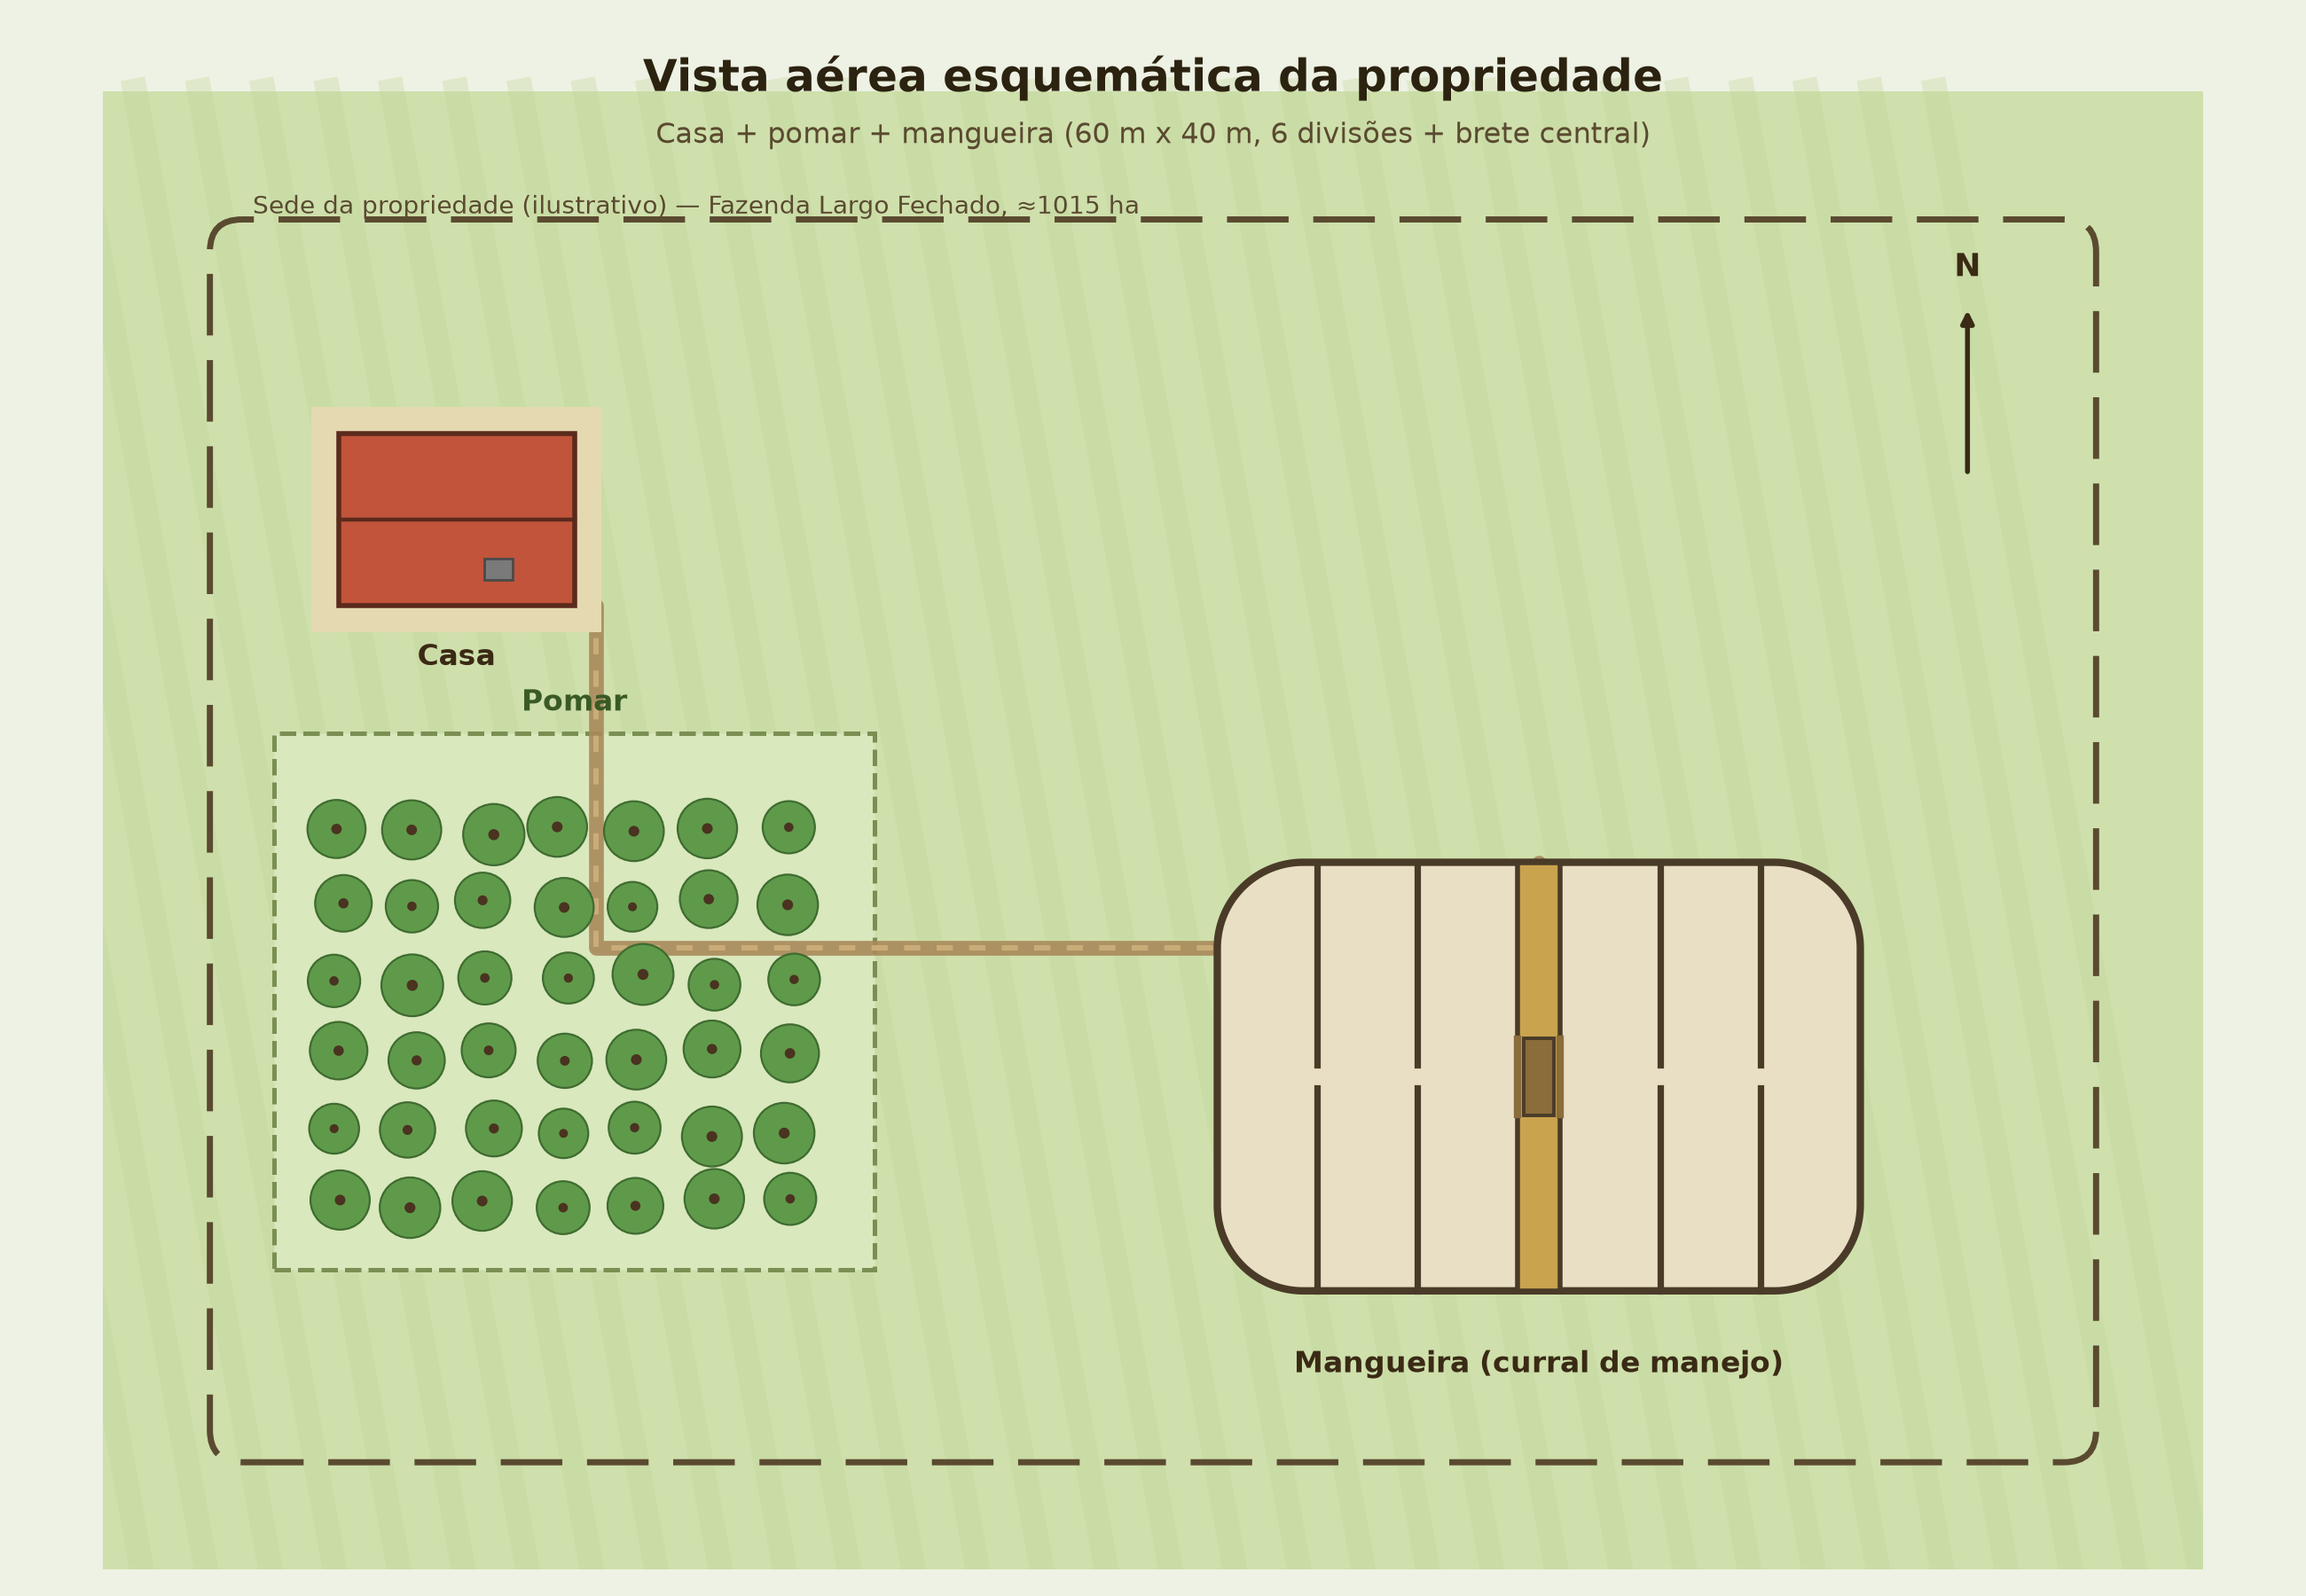
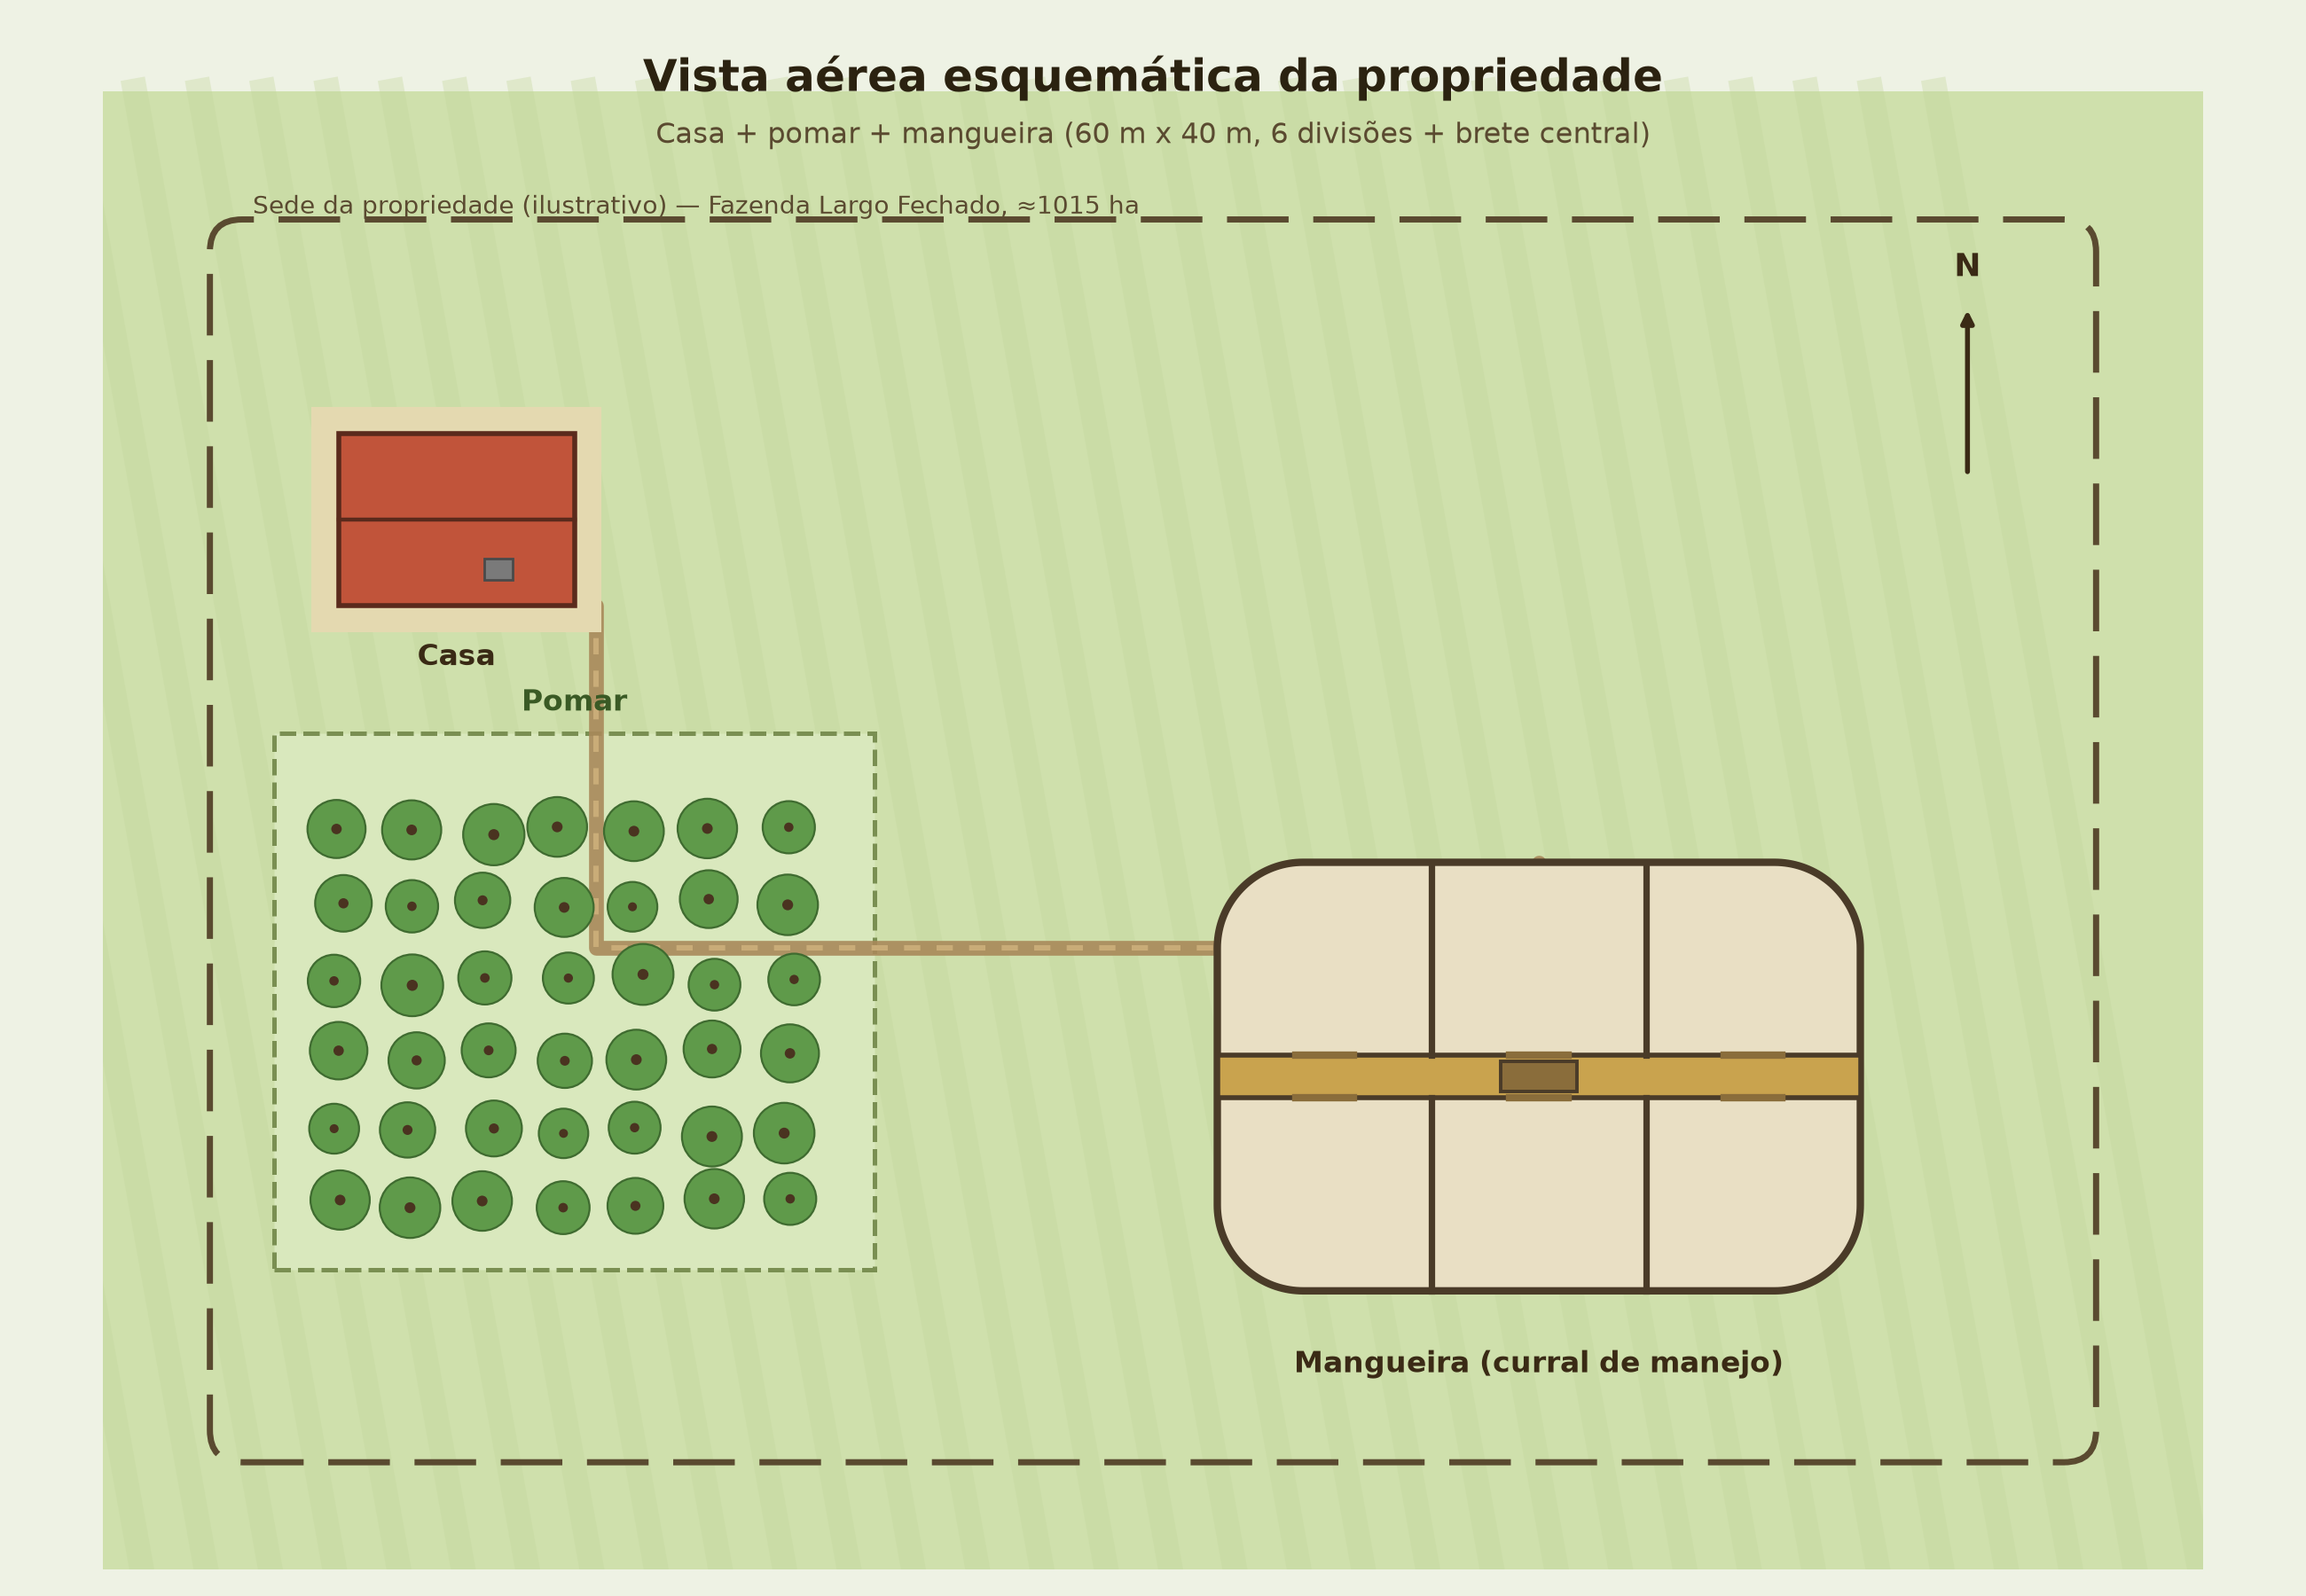
Muda o corredor de manejo para horizontal (3 piquetes em cima, 3 embaixo)
O brete central agora corta a mangueira na horizontal, de um lado ao
outro, dividindo os 6 piquetes em duas fileiras de 3. Cada piquete tem
seu proprio portao de acesso ao corredor central.

Claude-Session: https://claude.ai/code/session_01B2s8ECTjQbPqyVYzuzEcJN

Changed region(s): [[0.5296, 0.5289, 0.81, 0.8089]]

diff --git a/projeto-mangueira/mangueira_lib.py b/projeto-mangueira/mangueira_lib.py
@@ -27,10 +27,12 @@ def contorno_arredondado(x0, y0, x1, y1, r):
 
 
 def desenhar_mangueira(ax, ox=0.0, oy=0.0, largo=60.0, alto=40.0, r=8.0,
-                        n_div=6, corredor_w=4.0, simples=False, zbase=2):
+                        n_div=6, corredor_h=4.0, simples=False, zbase=2):
     """Desenha a mangueira (curral) em planta, com origem (ox, oy) no canto
-    inferior esquerdo. Se `simples=True`, omite rotulos/cotas/setas (usado
-    na vista aerea da propriedade)."""
+    inferior esquerdo. O corredor central de manejo e horizontal, cortando
+    a mangueira de um lado ao outro e deixando 3 piquetes em cima e 3
+    embaixo. Se `simples=True`, omite rotulos/cotas/setas (usado na vista
+    aerea da propriedade)."""
     x0, y0 = ox, oy
     x1, y1 = ox+largo, oy+alto
 
@@ -40,51 +42,52 @@ def desenhar_mangueira(ax, ox=0.0, oy=0.0, largo=60.0, alto=40.0, r=8.0,
                               linewidth=3 if simples else 4, zorder=zbase)
     ax.add_patch(cerca)
 
-    # corredor central de manejo (corta do lado de baixo ao lado de cima)
-    cx0 = ox + largo/2 - corredor_w/2
-    cx1 = ox + largo/2 + corredor_w/2
-    ax.add_patch(mpatches.Rectangle((cx0, y0), corredor_w, alto,
+    # corredor central de manejo (corta da esquerda a direita)
+    cy0 = oy + alto/2 - corredor_h/2
+    cy1 = oy + alto/2 + corredor_h/2
+    ax.add_patch(mpatches.Rectangle((x0, cy0), largo, corredor_h,
                                      facecolor="#c9a34e", edgecolor="#4a3b28",
                                      linewidth=2, zorder=zbase+1))
     # bretezinho (tronco de contencao) dentro do corredor
-    tronco_h = alto*0.18
-    ax.add_patch(mpatches.Rectangle((cx0+corredor_w*0.15, y0+alto/2-tronco_h/2),
-                                     corredor_w*0.7, tronco_h,
+    tronco_w = largo*0.12
+    ax.add_patch(mpatches.Rectangle((ox+largo/2-tronco_w/2, cy0+corredor_h*0.15),
+                                     tronco_w, corredor_h*0.7,
                                      facecolor="#8a6d3b", edgecolor="#4a3b28",
                                      linewidth=1.4, zorder=zbase+2))
 
-    # 6 piquetes: 3 de cada lado do corredor central
-    lado_w = (largo/2 - corredor_w/2)
-    passo = lado_w / (n_div/2)
-    gate_w = alto*0.055
+    # 6 piquetes: 3 em cima e 3 embaixo do corredor central
+    linha_h = (alto/2 - corredor_h/2)
+    passo = largo / (n_div/2)
+    gate_w = largo*0.045
 
-    def divisorias(x_ini, n):
+    def divisorias_linha(y_ini, y_fim, n):
         for k in range(1, n):
-            xk = x_ini + k*passo
-            ax.plot([xk, xk], [y0, y0+alto/2-gate_w/2], color="#4a3b28",
-                    linewidth=2.6 if simples else 3.5, zorder=zbase+1)
-            ax.plot([xk, xk], [y0+alto/2+gate_w/2, y1], color="#4a3b28",
+            xk = x0 + k*passo
+            ax.plot([xk, xk], [y_ini, y_fim], color="#4a3b28",
                     linewidth=2.6 if simples else 3.5, zorder=zbase+1)
 
-    divisorias(x0, 3)
-    divisorias(x0+lado_w+corredor_w, 3)
+    divisorias_linha(y0, cy0, 3)          # linha de baixo
+    divisorias_linha(cy1, y1, 3)          # linha de cima
 
-    # portais ligando os piquetes 3 e 4 ao corredor central
-    for xk, side in [(cx0, -1), (cx1, 1)]:
-        ax.plot([xk, xk], [y0+alto/2-gate_w*1.6, y0+alto/2+gate_w*1.6],
+    # portais ligando cada piquete ao corredor central (um por piquete)
+    for k in range(3):
+        xk = x0 + (k+0.5)*passo
+        ax.plot([xk-gate_w, xk+gate_w], [cy0, cy0],
+                color="#8a6d3b", linewidth=5 if not simples else 3, zorder=zbase+2)
+        ax.plot([xk-gate_w, xk+gate_w], [cy1, cy1],
                 color="#8a6d3b", linewidth=5 if not simples else 3, zorder=zbase+2)
 
     if not simples:
-        # numeracao dos piquetes
+        # numeracao dos piquetes: 1-3 em cima (esq->dir), 4-6 embaixo (esq->dir)
         for k in range(3):
             cxp = x0 + (k+0.5)*passo
-            ax.text(cxp, oy+alto/2, f"{k+1}", fontsize=20, fontweight="bold",
+            ax.text(cxp, cy1+linha_h/2, f"{k+1}", fontsize=20, fontweight="bold",
                     ha="center", va="center", color="#4a3b28", alpha=0.55, zorder=zbase+3)
         for k in range(3):
-            cxp = x0+lado_w+corredor_w + (k+0.5)*passo
-            ax.text(cxp, oy+alto/2, f"{k+4}", fontsize=20, fontweight="bold",
+            cxp = x0 + (k+0.5)*passo
+            ax.text(cxp, y0+linha_h/2, f"{k+4}", fontsize=20, fontweight="bold",
                     ha="center", va="center", color="#4a3b28", alpha=0.55, zorder=zbase+3)
-        ax.text(ox+largo/2, oy+alto+2.2, "Curral de manejo\n(brete central)",
-                ha="center", va="bottom", fontsize=10, color="#5a4110", fontweight="bold")
+        ax.text(ox+largo+2.5, oy+alto/2, "Curral de manejo\n(brete central)",
+                ha="left", va="center", fontsize=10, color="#5a4110", fontweight="bold")
 
     return x0, y0, x1, y1

diff --git a/projeto-mangueira/gerar_mangueira.py b/projeto-mangueira/gerar_mangueira.py
@@ -16,17 +16,28 @@ ax.add_patch(mpatches.Rectangle((-6, -6), LARGO+12, ALTO+12,
 
 x0, y0, x1, y1 = desenhar_mangueira(ax, 0, 0, LARGO, ALTO, R, simples=False)
 
-# seta de fluxo do gado nos 3 piquetes da esquerda e da direita, convergindo
-# para o corredor central de manejo
+CORREDOR_H = 4.0
+cy0 = ALTO/2 - CORREDOR_H/2
+cy1 = ALTO/2 + CORREDOR_H/2
+linha_h = ALTO/2 - CORREDOR_H/2
+
+# seta de fluxo do gado: percorre a fileira de cima e a de baixo, e desce/sobe
+# pelo portao central para o corredor de manejo
 def seta(x_ini, x_fim, y, cor="#b23b23"):
     ax.annotate("", xy=(x_fim, y), xytext=(x_ini, y),
                 arrowprops=dict(arrowstyle="-|>", color=cor, lw=2.0,
                                  linestyle=(0, (6, 3))))
 
-seta(4, 25, ALTO*0.28)
-seta(56, 35, ALTO*0.28)
-seta(4, 25, ALTO*0.72)
-seta(56, 35, ALTO*0.72)
+def seta_v(x, y_ini, y_fim, cor="#b23b23"):
+    ax.annotate("", xy=(x, y_fim), xytext=(x, y_ini),
+                arrowprops=dict(arrowstyle="-|>", color=cor, lw=2.0,
+                                 linestyle=(0, (6, 3))))
+
+seta(4, 56, cy1 + linha_h/2)          # fileira de cima: esquerda -> direita
+seta(56, 4, y0 + linha_h/2)           # fileira de baixo: direita -> esquerda
+seta_v(LARGO/2, cy1 + linha_h*0.35, cy1 + 0.3)   # desce da fileira de cima p/ o corredor
+seta_v(LARGO/2, y0 + linha_h*0.65, cy0 - 0.3)    # sobe da fileira de baixo p/ o corredor
+
 
 # cotas
 def cota_h(y, xi, xf, texto):
@@ -50,8 +61,8 @@ ax.annotate("cantos arredondados\n(facilita o giro do gado)",
 ax.annotate("", xy=(x0+2, ALTO-2), xytext=(x0+3, ALTO+9),
             arrowprops=dict(arrowstyle="->", color="#4a3b28", lw=1.2))
 
-ax.text(LARGO/2, ALTO+16, "Projeto de Mangueira — 60 m x 40 m — 6 divisões + brete central",
-        ha="center", va="bottom", fontsize=16.5, fontweight="bold", color="#2b2210")
+ax.text(LARGO/2, ALTO+16, "Projeto de Mangueira — 60 m x 40 m — 3 divisões em cima e 3 embaixo + brete central",
+        ha="center", va="bottom", fontsize=15.5, fontweight="bold", color="#2b2210")
 ax.text(LARGO/2, ALTO+12.3, "Fazenda Largo Fechado  •  Área total ≈ 1015 ha",
         ha="center", va="bottom", fontsize=11.5, color="#5a4a30")
 
